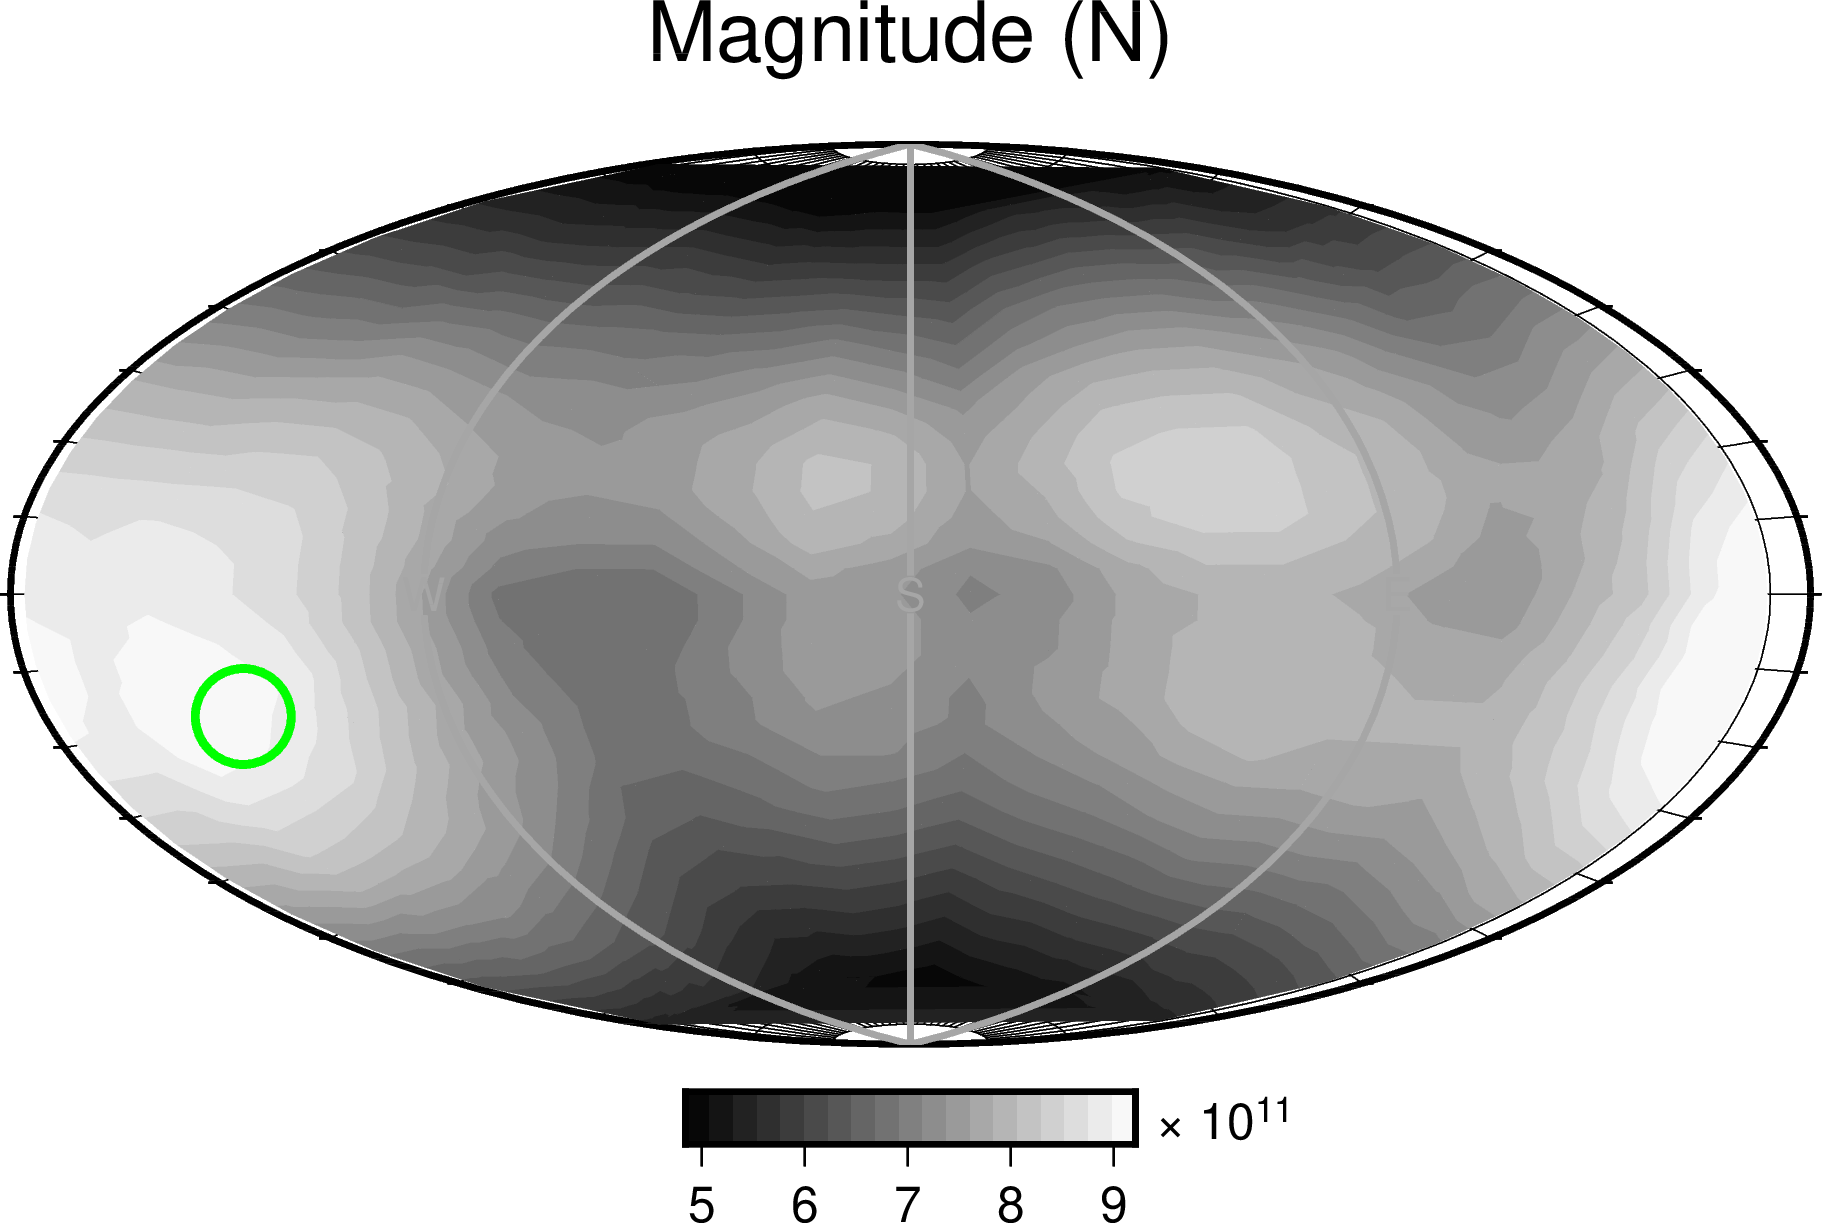
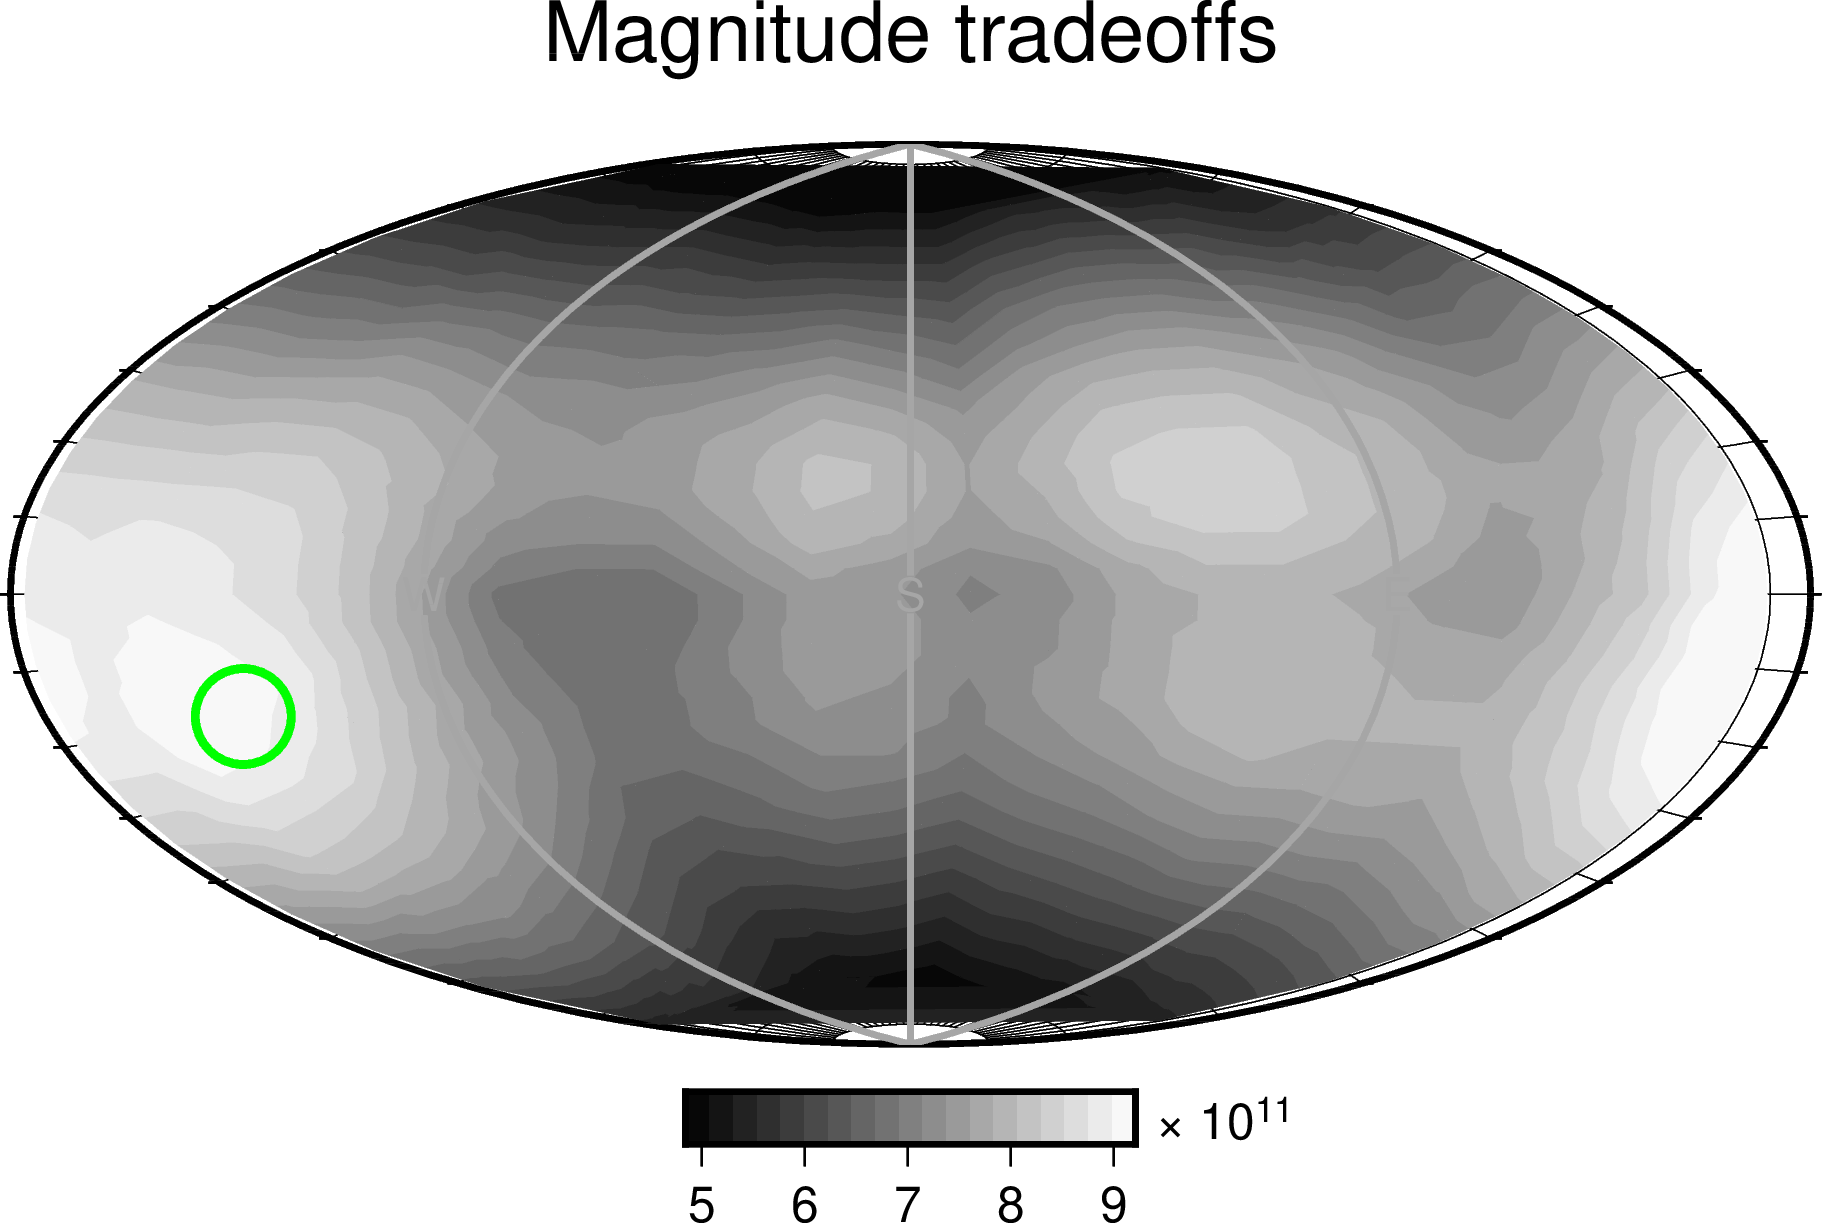
Revised docs

Changed region(s): [[0.2766, 0.0, 0.7069, 0.0621]]

diff --git a/docs/user_guide/code/gallery_force.py b/docs/user_guide/code/gallery_force.py
@@ -54,11 +54,6 @@ if __name__=='__main__':
         )
 
 
-    #
-    # For our objective function, we will use a sum of body and surface wave
-    # contributions
-    #
-
     misfit_sw = Misfit(
         norm='L2',
         time_shift_min=-10.,
@@ -67,17 +62,8 @@ if __name__=='__main__':
         )
 
 
-    #
-    # User-supplied weights control how much each station contributes to the
-    # objective function
-    #
-
     station_id_list = parse_station_codes(path_weights)
 
-
-    #
-    # Next, we specify the moment tensor grid and source-time function
-    #
 
     grid = ForceGridRegular(
         npts_per_axis=25,
@@ -87,11 +73,6 @@ if __name__=='__main__':
     wavelet = Trapezoid(
         magnitude=4.5)
 
-
-    #
-    # Origin time and location will be fixed. For an example in which they 
-    # vary, see examples/GridSearch.DoubleCouple+Magnitude+Depth.py
-    #
 
     origin = Origin({
         'time': '2009-04-07T20:12:55.000000Z',
@@ -174,13 +155,11 @@ if __name__=='__main__':
 
     if comm.rank==0:
 
-        print(results)
-
         plot_misfit_force(event_id+'_misfit_force.png', 
             results, title='L2 misfit')
 
         plot_force_tradeoffs(event_id+'_force_tradeoffs.png',
-            results, title='Magnitude (N)')
+            results, title='Magnitude tradeoffs')
 
 
         print('Plotting likelihoods...\n')

diff --git a/docs/user_guide/code/gallery_mt.py b/docs/user_guide/code/gallery_mt.py
@@ -55,11 +55,6 @@ if __name__=='__main__':
         )
 
 
-    #
-    # For our objective function, we will use a sum of body and surface wave
-    # contributions
-    #
-
     misfit_sw = Misfit(
         norm='L2',
         time_shift_min=-10.,
@@ -68,17 +63,8 @@ if __name__=='__main__':
         )
 
 
-    #
-    # User-supplied weights control how much each station contributes to the
-    # objective function
-    #
-
     station_id_list = parse_station_codes(path_weights)
 
-
-    #
-    # Next, we specify the moment tensor grid and source-time function
-    #
 
     grid = FullMomentTensorGridSemiregular(
         npts_per_axis=10,
@@ -87,11 +73,6 @@ if __name__=='__main__':
     wavelet = Trapezoid(
         magnitude=4.5)
 
-
-    #
-    # Origin time and location will be fixed. For an example in which they 
-    # vary, see examples/GridSearch.DoubleCouple+Magnitude+Depth.py
-    #
 
     origin = Origin({
         'time': '2009-04-07T20:12:55.000000Z',

diff --git a/mtuq/graphics/uq/force.py b/mtuq/graphics/uq/force.py
@@ -207,7 +207,7 @@ def _plot_force(filename, da, show_best=True, show_tradeoffs=False, **kwargs):
 #
 
 def calculate_misfit(da):
-    """ For each point on lune, extracts minimum misfit
+    """ For each force orientation, extracts minimum misfit
     """
     misfit = da.min(dim=('origin_idx', 'F0'))
 
@@ -217,7 +217,7 @@ def calculate_misfit(da):
 
 
 def calculate_likelihoods(da, var):
-    """ For each point on lune, calculates maximum likelihood value
+    """ For each force orientation, calculates maximum likelihood value
     """
     likelihoods = da.copy()
     likelihoods.values = np.exp(-likelihoods.values/(2.*var))
@@ -232,7 +232,7 @@ def calculate_likelihoods(da, var):
 
 
 def calculate_marginals(da, var):
-    """ For each point on lune, calculates marginal likelihood value
+    """ For each force orientation, calculates marginal likelihood value
     """
 
     likelihoods = da.copy()

diff --git a/mtuq/graphics/uq/lune.py b/mtuq/graphics/uq/lune.py
@@ -181,7 +181,7 @@ def _plot_lune(filename, da, show_best=True, show_tradeoffs=False, **kwargs):
     ``show_best`` (`bool`):
     Show where best-fitting moment tensor falls on lune
 
-    ``show_best`` (`bool`):
+    ``show_tradeoffs`` (`bool`):
     Show how focal mechanism trades off with lune coordinates
 
     ``title`` (`str`)

diff --git a/docs/user_guide/03.rst b/docs/user_guide/03.rst
@@ -8,15 +8,18 @@ The response of a medium to an impulsive source is called a Green's function.  T
 Role of Green's functions
 -------------------------
 
-By combining Green's functions (which represent the medium response to simple impulsive sources), it is possible to obtain synthetics from any source, however complex. This type of linear combination is useful because it provides computaional savings: it's generally less expensive to generate synthetics by combining Green's functions than it is to perform on-the-fly wavefield simulations.
+By combining Green's functions, it is possible to obtain synthetics from any moment tensor or force source.  Synthetics can then be compared with data to determine a best-fitting source.
+
+Generating synthetics through linear combinations of Green's functions is useful because it provides computaional savings.  It is much  more cost effective to compute Green's functions (an up-front cost, indepdent of the number of sources) than it is to perform an on-the-fly wavefield simulation for each new source.
+
 
 
 `GreensTensor` objects
 ----------------------
 
-`GreensTensor <https://uafgeotools.github.io/mtuq/library/generated/mtuq.GreensTensor.html>`_ objects provide access to an entire set of Green's functions needed to describe the medium response between a given station and origin.  
+`GreensTensor <https://uafgeotools.github.io/mtuq/library/generated/mtuq.GreensTensor.html>`_ objects provide access to a set of Green's functions describing the medium response between a given station and origin.  
 
-Methods built into the `GreensTensor` class allow data processing and synthetics generation.  In particular, the `get_synthetics <https://uafgeotools.github.io/mtuq/library/generated/mtuq.GreensTensor.get_synthetics.html#mtuq.GreensTensor.get_synthetics>`_ method accepts a `MomentTensor` and returns traces representing the response at the given station.
+Methods built into the `GreensTensor` class allow data processing and synthetics generation.  In particular, the `get_synthetics <https://uafgeotools.github.io/mtuq/library/generated/mtuq.GreensTensor.get_synthetics.html#mtuq.GreensTensor.get_synthetics>`_ method accepts a `MomentTensor` or `Force` and returns traces representing the response at the given station.
 
 
 
@@ -24,7 +27,7 @@ Methods built into the `GreensTensor` class allow data processing and synthetics
 Downloading precomputed Green's functions
 -----------------------------------------
 
-One of the easiest ways to acquire Green's functions is to download them using `syngine <http://ds.iris.edu/ds/products/syngine/>`_, a webservice that hosts Green's functions from the following 1D Earth models: PREM, AK135, and iasp91.
+An easy ways to acquire Green's functions is to download them from `syngine <http://ds.iris.edu/ds/products/syngine/>`_, a webservice that hosts Green's functions from the following 1D Earth models: PREM, AK135, and iasp91.
 
 To download AK135 Green's functions and generate MTUQ `GreenTensor` objects:
 
@@ -33,7 +36,7 @@ To download AK135 Green's functions and generate MTUQ `GreenTensor` objects:
    from mtuq import download_greens_functions
    greens_tensors = download_greens_functions(stations, origins, model="ak135f_2s")
 
-Besides providing only a handful of Earth models, another limitation of syngine is that Green's functions can be downloaded only on a station-by-station basis, not over the whole Earth.  As described below, an alternative method for acquiring Green's functions, which completely avoids these limitations, is to perform your own Green's functions simulations.
+A limitation of syngine is that Green's functions can be downloaded only on a station-by-station basis, not over an entire subset of Earth.  An alternative for acquiring Green's functions, which avoids this limitation, is to perform your own Green's functions simulations.
 
 
 
@@ -43,7 +46,7 @@ Computing Green's functions from 1D Earth models
 
 MTUQ supports the following 1D Green's functions formats: AxiSEM (preferred) and FK.
 
-`AxiSEM <https://github.com/geodynamics/axisem>`_ simulates wave propagation in radially-symmeric Earth models using a spectral-element method.  To generate synthetics in a format MTUQ natively supports, follow the instructions for in the `AxiSEM user manual <https://geodynamics.org/cig/software/axisem/axisem-manual.pdf>`_  under "Output wavefields in NetCDF formated needed by instaseis."  AxiSEM NetCDF files can be used to retrieve vertical, radial, and transverse  displacement in units of m*(N-m)^-1.
+`AxiSEM <https://github.com/geodynamics/axisem>`_ performs spectral element wave simulations in radially-symmeric Earth models.  To generate synthetics in a format MTUQ natively supports, follow the instructions for in the `AxiSEM user manual <https://geodynamics.org/cig/software/axisem/axisem-manual.pdf>`_  under "Output wavefields in NetCDF formated needed by instaseis."  AxiSEM NetCDF files can be used to retrieve vertical, radial, and transverse  displacement in units of m*(N-m)^-1.
 
 To open an AxiSEM database client in MTUQ:
 

diff --git a/docs/user_guide/04.rst b/docs/user_guide/04.rst
@@ -5,18 +5,18 @@ Data processing
 
 Filtering, windowing and other signal processing operations are essential for meaningful comparisons between data synthetics.  
 
-To make data processing easier, `mtuq.ProcessData` is an attempt at a one-size-fits-all data processing class.  While the approach below based on `mtuq.ProcessData` is fairly general,  users are neverthelsss free to apply their own custom data processing functions instead, with the only requirement being that the `time discretization <https://uafgeotools.github.io/mtuq/user_guide/04.html#time-discretization-requirements>`_ conditions below end up being satisfied.
+To make data processing easier, `mtuq.ProcessData` is an attempt at a one-size-fits-all data processing class.  While the approach below based on `mtuq.ProcessData` is very general,  users are neverthelsss free to apply their own custom data processing functions instead, with the only condition being that the `requirements <https://uafgeotools.github.io/mtuq/user_guide/04.html#requirements-for-processed-data>`_ below end up being satisfied.
 
 
 
 An approach based on `mtuq.ProcessData`
 ---------------------------------------
 
-Data processing choices include filter type, window length, and many others. For detailed descriptions of all available parameters, see the `API reference <https://uafgeotools.github.io/mtuq/library/generated/mtuq.ProcessData.html>`_.
+Data processing choices include filter type, window length, and many others. For detailed descriptions of all available parameters, see the `library reference <https://uafgeotools.github.io/mtuq/library/generated/mtuq.ProcessData.html>`_.
  
 
 
-With `mtuq.ProcessData`, the choice of data processing parameters is clearly separated from the actual application of the data processing function to the seismic data, resulting in a two-step procedure.
+With `mtuq.ProcessData`, the choice of data processing parameters is clearly separated from the application of the data processing function to the seismic data, resulting in a two-step procedure.
 
 In the first step, the user supplies parameters to create a data processing function:
 
@@ -36,7 +36,7 @@ Data processing can also be applied to an entire `Dataset` at once:
 .. code::
 
     processed_data = mtuq.Dataset()
-    for stream in dataset:
+    for stream in raw_data:
         processed_stream = process_data(stream)
         processed_data += processed_stream
 
@@ -45,21 +45,19 @@ Or, more succinctly:
 
 .. code::
 
-    processed_dataset = dataset.map(process_data)
+    processed_data = raw_data.map(process_data)
 
 
 
-Time discretization requirements
---------------------------------
+Requirements for processed data
+-------------------------------
 
-To make meaningful comparisons betweeen data and synthetics, windows must of course be chosen to include body wave and/or surface wave phases of interest.
-
-Two additional conditions turn out to be useful for numerical efficiency and software engineering robustness:
+For computational efficiency and software engineering reasons, processed traces must satisfy:
 
 1. all traces must have the same sampling rate and number of samples
 2. all traces common to the same station must have the same startime and endtime
 
-By imposing these time discretization requirements, MTUQ achieves faster memory access patterns, more efficent misfit evaluation, and more easily maintainable code.
+These conditions help MTUQ achieve faster memory access patterns, more efficent misfit evaluation, and more easily maintainable code.  An easy way to ensure that they are satisfied is to simply use `mtuq.ProcessData` for data processing.
 
-An easy way to ensure that the above requirements are satisfied is to simply use `mtuq.ProcessData` for data processing.
+Of course, to make meaningful comparisons betweeen data and synthetics, processed data must also pass basic quality control checks.  For example, data must contain actual body wave or surface arrivals from the given event.  MTUQ's `waveform plotting <https://uafgeotools.github.io/mtuq/library/index.html#data-visualization>`_ functions can sometimes be helpful for these types of checks.
 

diff --git a/docs/user_guide/01.rst b/docs/user_guide/01.rst
@@ -1,62 +1,7 @@
-Learning ObsPy and MTUQ
-=======================
+Learning Python and ObsPy
+=========================
 
-To avoid reinventing the wheel, MTUQ makes extensive use of `ObsPy <https://github.com/obspy/obspy/wiki>`_, a widely-used Python package for seismology.  If you're not familiar with Python or ObsPy, an excellent place to start is the `ObsPy tutorial <http://docs.obspy.org/tutorial/index.html>`_.
+To avoid reinventing the wheel, MTUQ makes extensive use of `ObsPy <https://github.com/obspy/obspy/wiki>`_, a Python package for seismology.  If you're not familiar with Python or ObsPy, an excellent place to start is the `ObsPy tutorial <http://docs.obspy.org/tutorial/index.html>`_.
 
-
-
-MTUQ code snippets
-------------------
-
-.. warning::
-
-   Under construction
-
-
-#
-
-Reading a single trace:
-
-.. code ::
-
-   git clone --branch data <repo>
-
-   import obspy
-   stream = obspy.read(<filename>, format='SAC')
-
-
-#
-
-Reading a set of traces:
-
-.. code ::
-
-   git clone --branch data <repo>
-
-   import mtuq
-   data = mtuq.read(<wildcard>, format='SAC')
-
-#
-
-Processing a single trace
-
-.. code ::
-
-   from mtuq import ProcessData
-
-   function = ProcessData(filter='lowpass', period=5.)
-   processed_stream = function(stream)
-
-
-#
-
-Processing a set of traces:
-
-.. code ::
-
-   from mtuq import ProcessData
-
-   function = ProcessData(filter='lowpass', period=5.)
-   processed_data = data.map(function)
 
 

diff --git a/docs/user_guide/02.rst b/docs/user_guide/02.rst
@@ -9,9 +9,9 @@ Acquiring and quality control checking seismic data can be one of the most chall
 Data acquisition clients
 ------------------------
 
-`ObsPy FDSN clients <https://docs.obspy.org/packages/obspy.clients.fdsn.html>`_ provide a way of programmatically downloading waveforms from `IRIS <https://www.iris.edu>`_.
+`ObsPy FDSN clients <https://docs.obspy.org/packages/obspy.clients.fdsn.html>`_ provide a way of programmatically downloading waveforms from `IRIS <https://www.iris.edu>`_. `PySEP <https://github.com/uafgeotools/pysep>`_ is a wrapper around an Obspy FDSN client and our preferred data acquisition tool.  
 
-`PySEP <https://github.com/uafgeotools/pysep>`_ is a wrapper around an Obspy FDSN client our preferred data acquisition tool.  Besides downloading waveforms through ObsPy calls, PySEP performs data processing and quality control, ensuring that the data processing and time discretization requirements below are satisfied.  
+Besides downloading waveforms through ObsPy calls, PySEP performs data processing and quality control, ensuring that the data processing and time discretization requirements below are satisfied.  
 
 Additionally, PySEP generates "weight files" that can optionally be used by `mtuq.process_data` to control the relative contribution of different stations to the data misfit function.
 

diff --git a/docs/user_guide/05.rst b/docs/user_guide/05.rst
@@ -3,7 +3,9 @@
 Visualization galleries
 =======================
 
-MTUQ can be used to carry out grid searches over moment tensors, double couples, and forces. In each of these cases, the output of `mtuq.grid_search` is a data structure that can be passed directly to various visualization functions, some of which are illustrated here:
+As described previously, MTUQ can be used to carry out grid searches over moment tensors, double couples, and forces. 
+
+The output of `mtuq.grid_search` in each of these cases is a data structure that can be passed directly to visualization functions.  Specific examples are given below.
  
 
 .. toctree::
